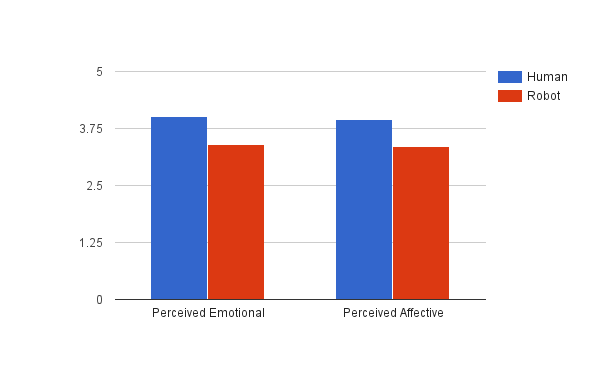
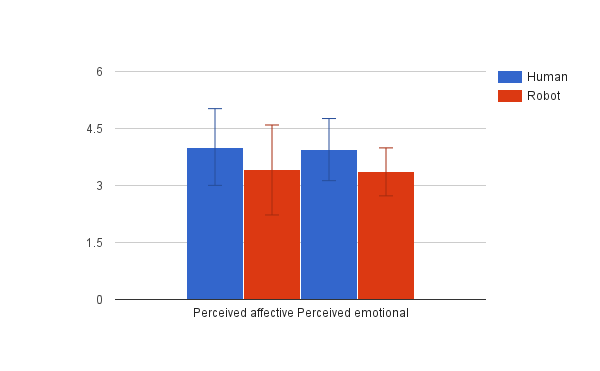
Review results chapter

Changed region(s): [[0.24, 0.2965, 0.75, 0.8598], [0.12, 0.3261, 0.18, 0.3558], [0.15, 0.4744, 0.18, 0.504]]

diff --git a/partials/70_results.tex b/partials/70_results.tex
@@ -3,10 +3,24 @@
 
 In order to evaluate the created social robot on the game playing scenario of \emph{Sueca}, a user study was conducted.
 The main idea was to set up the environment in which this robot is supposed to interact with human players, and collect, in an adequate way, their feelings and perceptions.
-The targeting measures are the trust on the partner, the affect felt, and also the perception of the team player's social presence.
+
+The first measure this study aims to evaluate is trust, since \emph{Sueca} contains companionship between team players.
+At the same time, this game includes two teams competing with each other and therefore, the influence of these conditions can also be calculated for every defined measure.
+Additionally, measuring the social presence of every \emph{Sueca} partner will also provide a comparison between the two conditions.
+Finally, the last chosen measure is affect in order to evaluate the evolution of participants' feelings.
+
+%The targeting measures are the trust on the partner, the affect felt, and also the perception of the team player's social presence.
 Therefore, participants answered a questionnaire before playing with \ac{emys} and another one after the game.
 The current chapter starts with the samples description and proceeds with analyses on three mentioned measures.
 
+\section{Methodology and Procedures}
+Each session last an hour and included 3 participants to play with \ac{emys}.
+Firstly, each subject selected his team player in a draw.
+Secondly, according to each condition, having a human or robot partner, participants answered a questionnaire before playing \emph{Sueca}.
+This questionnaire contained two parts: the PANAS Questionnaire \cite{Egloff1998} and Human-Robot Trust Questionnaire \cite{Schaefer2013}.
+Then, one researcher explained the game rules with a standard deck, and played some tricks until everyone felt comfortable.
+After reviewing the \emph{Sueca} game, participants moved to the touch table and started a session of 5 games with or against \ac{emys}, considering the results in the initial draw.
+Lastly, participants answered another questionnaire divided into four parts: the PANAS Questionnaire, Human-Robot Trust Questionnaire, the Networked Minds Questionnaire \cite{Harms2004} and some demographic questions.
 
 \section{Samples Description}
 \label{sec:samples}
@@ -18,7 +32,7 @@ Furthermore, most participants affirmed to know their partners in spite of not h
 
 \section{Trust}
 \label{sec:trust}
-The trust in the partner was measured by the answers of each individual, before and after the game session, to the Human-Robot Trust Questionnaire \cite{Schaefer2013}.
+The trust in the partner was measured by the answers of each individual, before and after the game session, to the Human-Robot Trust Questionnaire.
 Consequently, the following three study hypothesis arose:
 \begin{itemize}
 \item Are there changes in trust after the experience of interacting with the \emph{Sueca} partner?
@@ -28,45 +42,56 @@ Consequently, the following three study hypothesis arose:
 
 
 \subsection*{Are there changes in trust after the experience of interacting with the \emph{Sueca} partner?}
-The statistical test used to infer a conclusion about this question was a Mixed ANOVA, with time as a factor of 2 levels and condition (partner) as the between-subjects factor.
+The statistical test Mixed ANOVA was used to infer a conclusion about this question, with \emph{time} as a factor of 2 levels and \emph{condition} (partner) as the between-subjects factor.
 Additionally, assumptions were tested to guarantee the results validity.
-The dependent variable (time) showed a significant effect with p = 0.03.
-However, by adding the independent variable (condition), the effect was not significant with p = 0.65.
+The dependent variable (\emph{time}) showed a significant effect with p = 0.03.
+However, by adding the independent variable (\emph{condition}), the effect was not significant with p = 0.65.
 
 \begin{figure}[h!]
   \centering
-    \includegraphics[width=0.7\textwidth]{./img/6/trustMixedANOVA}
+    \includegraphics[width=0.7\textwidth]{./img/6/trustTime}
   \caption{Evolution of the trust percentage between the two time levels}
-\label{fig:trustMixedANOVA}
+\label{fig:trustTime}
 \end{figure}
 
-Figure~\ref{fig:trustMixedANOVA} presents the evolution of the trust percentage between the two time levels, before the game and after the game.
+Figure~\ref{fig:trustTime} presents the evolution of the trust percentage between the two time levels, before and after the game.
 The trust values correspond to estimated means separated by time, since it was the only significant variable.
 
-\textbf{Answer:} There were significant differences in Trust before and after playing \emph{Sueca}, but there was not significant differences between \emph{Sueca} partners for different time levels.
+\textbf{Answer:} There were significant differences in Trust before and after playing \emph{Sueca}.
+However, there was no significant differences in Trust before and after playing \emph{Sueca} for different partners.
 Additionally, the trust levels of participants increased after playing \emph{Sueca} with \ac{emys}.
 
 
 
 \subsection*{Are the trust levels influenced by the partner (robot or human)?}
-The statistical test used to infer a conclusion about this question was the Welch Test, with condition as factor and pos-game trust as dependent variable.
-As a result, the condition effect was proved with p = 0, suggesting the means of trust were significantly different between having a robot partner or a human partner.
+The statistical test Welch Test was used to infer a conclusion about this question, with \emph{condition} as factor and \emph{final trust} as dependent variable.
+As a result, the \emph{condition} effect was proved with p = 0, suggesting the means of trust were significantly different between having a robot partner or a human partner.
+
+\begin{figure}[h!]
+  \centering
+    \includegraphics[width=0.7\textwidth]{./img/6/trustCondition}
+  \caption{Differences of trust levels between conditions}
+\label{fig:trustCondition}
+\end{figure}
+
+Figure~\ref{fig:trustCondition} evidences the trust level was higher for the \emph{condition} human partner, with a trust mean value of 81.538\%, when compared with the \emph{condition} robot partner, with a trust mean value of 77.215\%.
 
 \textbf{Answer:} There were significant differences in Trust between different \emph{Sueca} partners.
+Additionally, subjects' trust levels for human partners was higher than robot partners.
 
 
 \subsection*{Are the trust levels influenced by the game results?}
-A two-way ANOVA was run on data to analyse if the game results influenced the trust levels, with condition and game result as factors and pos-game trust as dependent variable.
-The effect of condition was significant, with p = 0.01 (already proved in the previous question).
-On the other hand, the game result cannot reject the null hypothesis with p = 0.065, and therefore proves an non significant effect on the trust measure.
-Moreover, the effect of both condition and game result also proved to be non significant with p = 0.507.
+A two-way ANOVA was run on data to analyse if the game results influenced the trust levels, with \emph{condition} and \emph{game result} as factors and \emph{final trust} as dependent variable.
+The effect of \emph{condition} was significant, with p = 0.01 (already proved in the previous question).
+On the other hand, the \emph{game result} cannot reject the null hypothesis with p = 0.065, and therefore proves an non significant effect on the trust measure.
+Moreover, the effect of both \emph{condition} and \emph{game result} also proved to be non significant with p = 0.507.
 
 \textbf{Answer:} There were no significant differences in Trust between different game results, which seems to suggest that independently of losing or winning the game, the perception of Trust in the game partner remains stable.
 
 
 \section{Social Presence}
 \label{sec:socialPresence}
-Each subject answered the Networked Minds Questionnaire after playing the game in order to measure the social presence of his partner \cite{Harms2004}.
+Each subject answered the Networked Minds Questionnaire after playing the game in order to measure the social presence of his partner.
 This measure of social presence includes six different subdimensions: co-presence, attentional allocation, perceived message understanding, perceived affective understanding, perceived emotional interdependence, and perceived behavioural interdependence.
 
 By considering this measure in a \emph{Sueca} scenario, one study hypothesis arose:
@@ -75,43 +100,45 @@ By considering this measure in a \emph{Sueca} scenario, one study hypothesis aro
 \end{itemize}
 
 \subsection*{Is the social presence influenced by the partner (robot or human)?}
-The statistical test used to infer a conclusion about this question was the One-Way ANOVA, with condition as factor and each social presence subcategories' values as dependent variable.
-The condition presented the following statistical effects of each subdimension results:
+The statistical test One-Way ANOVA was used to infer a conclusion about this question, with \emph{condition} as factor and each social presence subcategories' values as dependent variables.
+The \emph{condition} presented the following statistical effects of each subdimension results:
 \begin{itemize}
-\item There was not a statistically significant difference between the co-presence as determined by one-way ANOVA (F = 1.559, p = 0.217);
-\item There was not a statistically significant difference between the attentional allocation as determined by one-way ANOVA (F = 0.002, p = 0.965);
-\item There was not a statistically significant difference between the perceived message understanding as determined by one-way ANOVA (F = 0.081, p = 0.777);
-\item There was a statistically significant difference between the perceived affective understanding as determined by one-way ANOVA (F = 7.850, p = 0.007);
-\item There was a statistically significant difference between the perceived affective interdependence as determined by one-way ANOVA (F = 4.148, p = 0.046);
-\item There was not a statistically significant difference between the perceived behavioural interdependence as determined by one-way ANOVA (F = 0.699, p = 0.406).
+\item There was not a statistically significant difference between the \emph{co-presence} as determined by one-way ANOVA (F = 1.559, p = 0.217);
+\item There was not a statistically significant difference between the \emph{attentional allocation} as determined by one-way ANOVA (F = 0.002, p = 0.965);
+\item There was not a statistically significant difference between the \emph{perceived message understanding} as determined by one-way ANOVA (F = 0.081, p = 0.777);
+\item There was a statistically significant difference between the \emph{perceived affective understanding} as determined by one-way ANOVA (F = 7.850, p = 0.007);
+\item There was a statistically significant difference between the \emph{perceived emotional interdependence} as determined by one-way ANOVA (F = 4.148, p = 0.046);
+\item There was not a statistically significant difference between the \emph{perceived behavioural interdependence} as determined by one-way ANOVA (F = 0.699, p = 0.406).
 \end{itemize}
 
-The social presence of partner evidenced discrepancies for the two conditions in two subdimensions: perceived affective understanding and perceived emotional interdependence.
-As a result, Figure~\ref{fig:perceiveEmoAff} shows theses discrepancies.
+The social presence of partner evidenced discrepancies for the two conditions in two subdimensions: \emph{perceived affective understanding} and \emph{perceived emotional interdependence}.
+As a result, Figure~\ref{fig:perceiveEmoAff} shows theses discrepancies, demonstrating the \emph{perceived affective understanding} and \emph{perceived emotional interdependence} were higher in human partners.
 
-\begin{figure}[h!]
+\begin{figure}[H]
   \centering
     \includegraphics[width=0.7\textwidth]{./img/6/perceiveEmoAff}
   \caption{Perceived affective understanding and perceived emotional interdependence means for each  condition}
 \label{fig:perceiveEmoAff}
 \end{figure}
 
-\textbf{Answer:} There were no significant differences in Social Presence between \emph{Sueca} partners.
+\textbf{Answer:} There were significant differences in Social Presence between \emph{Sueca} partners for two dimensions: perceived affective understanding and perceived emotional interdependence.
+The mean values of both subdimensions were higher for human partners.
+Additionally, there were no significant differences in the remaining subdimensions of Social Presence between \emph{Sueca} partners.
 
 
 \section{Affect}
 \label{sec:affect}
 The affect was measured by the answers of each individual, before and after the game session, to the PANAS Questionnaire.
-It is divided into positive and negative affect and, therefore, there are two questions to answer:
+It is divided into positive and negative affect and, therefore, there are two study hypothesis:
 \begin{itemize}
 \item Are there changes in the positive affect after the experience of interacting with the \emph{Sueca} partner?
 \item Are there changes in the negative affect after the experience of interacting with the \emph{Sueca} partner?
 \end{itemize}
 
 \subsection*{Are there changes in the positive affect after the experience of interacting with the \emph{Sueca} partner?}
-In order to answer this questions, a Mixed ANOVA has been run on the collected data, with time as a factor of 2 levels and condition as the between-subjects factor.
-So, time proved to have a statistical significant effect on the positive affect, p = 0.008.
-On the other hand, the time levels by condition did not present a significant effect on the positive affect, p = 0.488.
+In order to answer this questions, a Mixed ANOVA has been run on the collected data, with \emph{time} as a factor of 2 levels and \emph{condition} as the between-subjects factor.
+So, \emph{time} proved to have a statistical significant effect on the positive affect, p = 0.008.
+On the other hand, the \emph{time} levels for each \emph{condition} did not present a significant effect on the positive affect, p = 0.488.
 
 \begin{figure}[h!]
   \centering
@@ -122,13 +149,15 @@ On the other hand, the time levels by condition did not present a significant ef
 
 Figure~\ref{fig:positiveAffect} evidences the evolution of the positive affect before and after playing \emph{Sueca} with \ac{emys}.
 
-\textbf{Answer:} There were significant differences in Positive Affect before and after playing \emph{Sueca}, but there was not significant differences between \emph{Sueca} partners at different time levels.
+\textbf{Answer:} There were significant differences in Positive Affect before and after playing \emph{Sueca}.
+However, there were no significant differences in Positive Affect before and after playing \emph{Sueca} between different partners.
 
 \subsection*{Are there changes in the negative affect after the experience of interacting with the \emph{Sueca} partner?}
-In order to answer this questions, a Mixed ANOVA has been run on the collected data, with time as a factor of 2 levels and condition as the between-subjects factor.
-The dependent variable (time) did not present a significant effect with p = 0.267.
-Furthermore, by adding the independent variable (condition), the effect was also not significant with p = 0.184.
+In order to answer this questions, a Mixed ANOVA has been run on the collected data, with \emph{time} as a factor of 2 levels and \emph{condition} as the between-subjects factor.
+The dependent variable (\emph{time}) did not present a significant effect with p = 0.267.
+Furthermore, by adding the independent variable (\emph{condition}) to \emph{time}, the effect was also not significant with p = 0.184.
 
-\textbf{Answer:} There were no significant differences in Negative Affect before and after playing \emph{Sueca}, and also there was no significant differences between \emph{Sueca} partners at different time levels.
+\textbf{Answer:} There were no significant differences in Negative Affect before and after playing \emph{Sueca}.
+Also, there were no significant differences in Negative Affect before and after playing \emph{Sueca} between different partners.
 
 \clearpage
